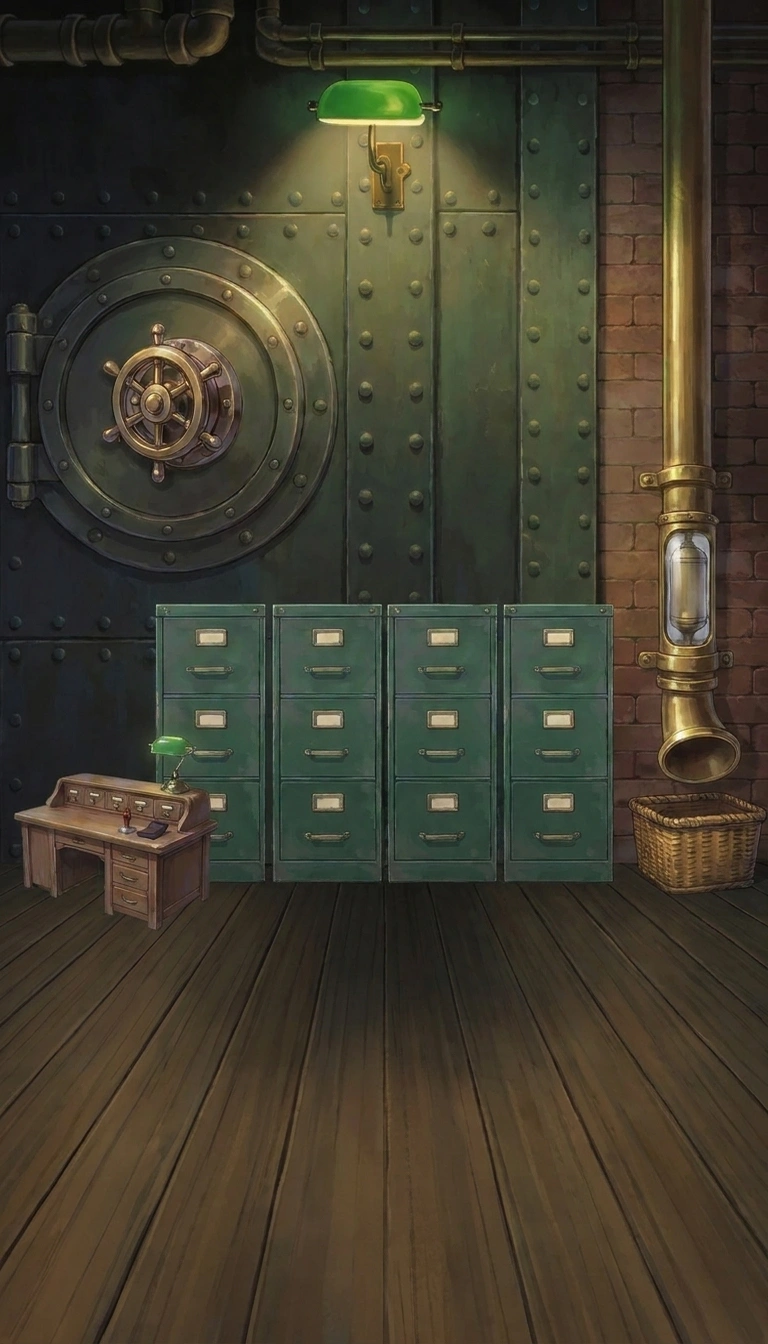
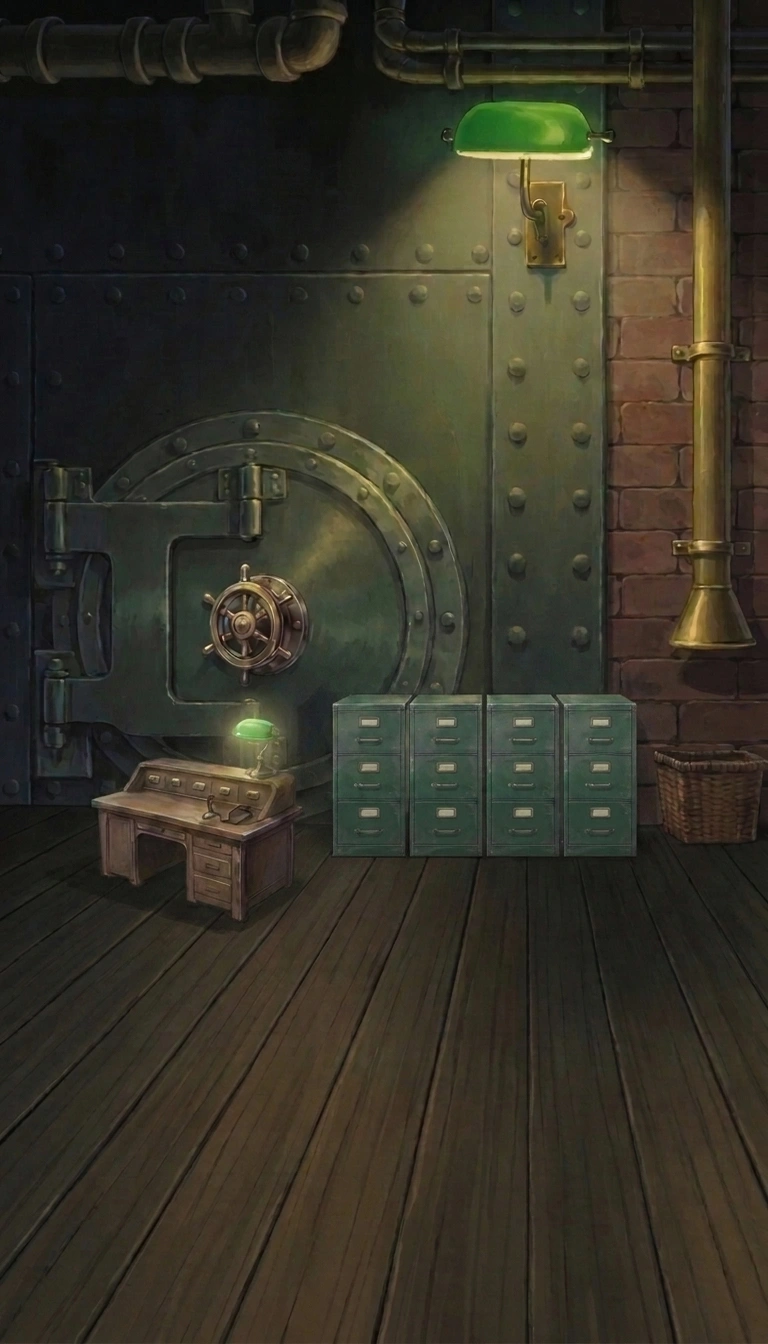
Rush, claim 6: the vault repainted to human scale, layouts and marks resized to match
Claude-Session: https://claude.ai/code/session_01JTmPY97Ydb1cE7nuacW8cg

diff --git a/game/js/rush.js b/game/js/rush.js
@@ -61,26 +61,28 @@
   // on-demand dial sits by them.
   // The vault's door, wheel, cabinets, tube, basket and desk are painted into the backdrop (painted: true), so they sit
   // in the room; the positions below are measured off the painting. Only the pieces that move or get bought are sprites.
+  // Drawn to one scale: a standing person is about 300 px tall in the wide room (about 224 in the tall one), so a
+  // three-drawer cabinet comes to chest height and the Night Clerk, slumped on his stools, to about two thirds of that.
   const VAULT_WIDE = {
     W: 1344, H: 768, bg: 'vault-wide', art: 'vault', painted: true,
-    chute: [[1153, 250], [1153, 470]], foot: [1153, 596], hatch: [1153, 440],
-    lever: { x: 176, y: 370, r: 62, wheel: true, label: [176, 545] },
-    clerk: { x: 1010, y: 655, h: 150 }, puddle: { x: 330, y: 715 },
-    rack: { x: 880, y: 656, h: 170 }, stools: { xs: [760, 702, 644, 586, 528, 470], y: 652, h: 56 },
-    desk: { x: 329, y: 660, h: 165 }, tank: { x: 440, y: 330, h: 190 }, bin: { x: 1262, y: 745, h: 90 },
+    chute: [[1150, 250], [1150, 455]], foot: [1150, 560], hatch: [1150, 430],
+    lever: { x: 195, y: 445, r: 42, wheel: true, label: [195, 545] },
+    clerk: { x: 1250, y: 662, h: 210 }, puddle: { x: 360, y: 712 },
+    rack: { x: 900, y: 656, h: 160 }, stools: { xs: [800, 728, 656, 584, 512, 440], y: 652, h: 66 },
+    desk: { x: 329, y: 645, h: 115 }, tank: { x: 470, y: 330, h: 150 }, bin: { x: 1100, y: 745, h: 90 },
     bell: { x: 1150, y: 744, h: 64 }, tray: [1090, 716], reports: [1040, 110],
-    cabs: { at: [[547, 603], [672, 603], [796, 603], [920, 603]], w: 117, h: 285 }, dial: [735, 268], inset: INSET_WIDE,
+    cabs: { at: [[610, 598], [711, 598], [813, 598], [914, 598]], w: 84, h: 184 }, dial: [762, 368], inset: INSET_WIDE,
     belt: { h: 100, slot: 116 }, title: [36, 26], handled: [1250, 46], say: { x: 400, y: 36, w: 600 }, fs: 1
   };
   const VAULT_TALL = {
     W: 768, H: 1344, bg: 'vault-tall', art: 'vault', painted: true,
-    chute: [[697, 500], [697, 760]], foot: [697, 858], hatch: [697, 740],
-    lever: { x: 160, y: 400, r: 62, wheel: true, label: [160, 585] },
-    clerk: { x: 330, y: 1162, h: 110 }, puddle: { x: 400, y: 1120 },
-    rack: { x: 100, y: 1150, h: 140 }, stools: { xs: [480, 428, 376, 324, 272, 220], y: 1010, h: 50 },
-    desk: { x: 115, y: 928, h: 160 }, tank: { x: 470, y: 395, h: 160 }, bin: { x: 470, y: 1165, h: 70 },
+    chute: [[712, 420], [712, 645]], foot: [712, 800], hatch: [712, 620],
+    lever: { x: 255, y: 620, r: 46, wheel: true, label: [255, 712] },
+    clerk: { x: 300, y: 1172, h: 150 }, puddle: { x: 130, y: 1120 },
+    rack: { x: 460, y: 1172, h: 110 }, stools: { xs: [420, 368, 316, 264, 212, 160], y: 1010, h: 48 },
+    desk: { x: 197, y: 918, h: 150 }, tank: { x: 548, y: 470, h: 150 }, bin: { x: 470, y: 1165, h: 70 },
     bell: { x: 560, y: 1104, h: 60 }, tray: [560, 960], filterLabel: [320, 820], reports: [690, 120],
-    cabs: { at: [[211, 879], [328, 879], [443, 879], [559, 879]], w: 108, h: 273 }, dial: [470, 560], inset: { r: [528, 985, 228, 190], src: INSET_TALL.src },
+    cabs: { at: [[370, 857], [447, 857], [524, 857], [601, 857]], w: 74, h: 161 }, dial: [548, 600], inset: { r: [528, 985, 228, 190], src: INSET_TALL.src },
     belt: { h: 150, slot: 162 }, coinsAt: [470, 50], title: [24, 24], handled: [690, 50], say: { x: 16, y: 196, w: 736 }, fs: 1.7
   };
   // Each room's props by the name the cellar uses for them. A missing file falls back to the cellar's.
@@ -833,8 +835,9 @@
       rrect(bx, by, bw, 8, 3); cx.fillStyle = 'rgba(0,0,0,.6)'; cx.fill();
       if (load > .02) { rrect(bx, by, bw * Math.min(1, load / 1.5), 8, 3); cx.fillStyle = hot ? '#ff6a4f' : load > .7 ? '#f2c14a' : '#6fd38a'; cx.fill(); }
       cx.restore();
-      text('ABCD'[i], a[0], y0 + 22 * L.fs, 24, hot ? '#ffb0a0' : '#f6e7c4');
-      text(String(cab.filed), a[0], y0 + c.h * .55, 22, '#bff5b4');
+      const tz = L.W < L.H ? .6 : 1; // the phone's cabinets are small: smaller marks, so the painted drawers still show
+      text('ABCD'[i], a[0], y0 + 22 * L.fs * tz, 24 * tz, hot ? '#ffb0a0' : '#f6e7c4');
+      text(String(cab.filed), a[0], y0 + c.h * .55, 22 * tz, '#bff5b4');
     });
     const xs = c.at.map(a => a[0]), top = Math.min(...c.at.map(a => a[1])) - c.h;
     plaque(S.ondemand ? 'Cabinets · partitions · on-demand' : 'Cabinets · DynamoDB partitions', (Math.min(...xs) + Math.max(...xs)) / 2, top - 16 * L.fs);

diff --git a/game/CREDITS.md b/game/CREDITS.md
@@ -98,7 +98,7 @@ Everything here was first made for or gathered by the first game, [Isekai'd Into
 | The Rush prototype's room and props (`assets/img/rush`): the cellar sorting room with its chute and lever painted in, wide and tall (`room-wide.webp`, `room-tall.webp`), and Mira's desk, a stool, a bolted stool, the rack, the bin, the bell, the Night Clerk, the error-budget tank, the puddle and three envelopes (sealed, bounced, done) | Generated by Ladi with [Sogni](https://www.sogni.ai) text-to-image (krea2turbo) on 2026-11-16, from prompts written for this game; one pick per item, props cut out from their plain backgrounds, resized and converted to WebP; the error-budget tank (`tank.webp`) replaced later that day with Ladi's second Sogni pick, a gauge mounted flat on an iron backplate (the first one's side bracket had no wall to hold) | Generated for this game; used under Sogni's terms for generated output | The Rush prototype (`rush.html`, `js/rush.js`) |
 | The Rush prototype's loading dock, where the Slow Courier plays (`assets/img/rush/dock-wide.webp`, `dock-tall.webp`) | Painted for this game by Google's Gemini image model (gemini-3-pro-image) through the Gemini API on Ladi's account on 2026-11-17 (`tools/rush_room_art.py`): each an edit of the cellar room above at the same framing (chute, lever and floor kept), the back wall turned into a half-raised rolling shutter onto a rainy alley; scaled to the game's size and converted to WebP | Used under the [Gemini API Additional Terms of Service](https://ai.google.dev/gemini-api/terms) | The Rush prototype, claim 4 (`rush.html`, `js/rush.js`) |
 | The Rush's Records Vault, claim 6: the props in `assets/img/rush/vault/` (three record folders, the filing drawer, two step stools, the records desk) | Generated with Sogni AI (krea2_turbo_fp8_scaled) on Ladi's account on 2026-11-17, from prompts written for this game (project files real-game/v3/claims/claim-6/sogni-prompts.md); one take picked from two for each, cut out of their plain backgrounds and resized by `tools/rush_vault_pack.py`, converted to WebP | Generated for this game; used under Sogni's terms for generated output | The Rush prototype, claim 6 (`rush.html`, `js/rush.js`) |
-| The Records Vault's room (`assets/img/rush/vault-wide.webp`, `vault-tall.webp`) with its vault door, four filing cabinets, pneumatic tube, mail basket and desk painted in | Ladi's Sogni vault backdrop and props above, laid out as a rough collage, then repainted as one room by Google's Gemini image model (gemini-3-pro-image-preview) through the Gemini API on Ladi's account on 2026-11-17 (two edits for the wide room; the tall one recomposed from the wide); scaled to the game's size and converted to WebP | Sogni's terms for the source images; the [Gemini API Additional Terms of Service](https://ai.google.dev/gemini-api/terms) for the edits | The Rush prototype, claim 6 (`rush.html`, `js/rush.js`) |
+| The Records Vault's room (`assets/img/rush/vault-wide.webp`, `vault-tall.webp`) with its vault door, four filing cabinets, pneumatic tube, mail basket and desk painted in | Ladi's Sogni vault backdrop and props above, laid out as a rough collage, then repainted as one room by Google's Gemini image model (gemini-3-pro-image-preview) through the Gemini API on Ladi's account on 2026-11-17 (the wide room repainted to one human scale in two edits; the tall one recomposed from it, its fourth cabinet pasted in and the wall behind repainted); scaled to the game's size and converted to WebP | Sogni's terms for the source images; the [Gemini API Additional Terms of Service](https://ai.google.dev/gemini-api/terms) for the edits | The Rush prototype, claim 6 (`rush.html`, `js/rush.js`) |
 | The Rush prototype's sound (`rush.html`) | No new files: it reuses recordings already credited here, the Sorting Floor's `m-floor` loop and its `j-floor-win` and `j-floor-lose` stings (Mureka), the rain bed `a-rain`, and the samples `s-x-lever`, `s-x-bell`, `s-x-stamp`, `s-x-page`, `s-x-lock`, `s-x-tick`, `s-x-chime`, `s-thud`, `s-clank2`, `s-coin`, `s-right` and `s-wrong`, with the synth in `js/audio.js` for the rest | As credited on each file's own line | The Rush prototype (`js/rush.js`) |
 
 Everything else is drawn in code: portraits for characters without a painted one and the System windows in `js/art.js` and `index.html`, chapter 1's whole overworld (the ground, river, buildings, props, the temple, and every character walking about) in `js/ch1-art.js`, and the Deny Mines' enemies in `js/ch1-mines-art.js`.
